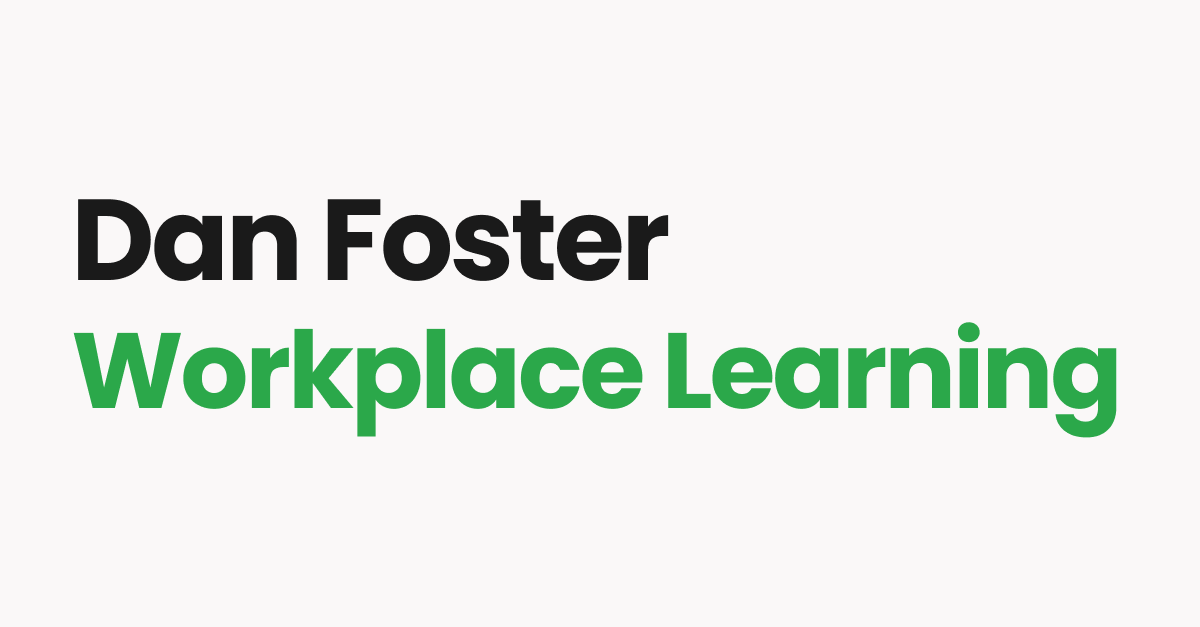
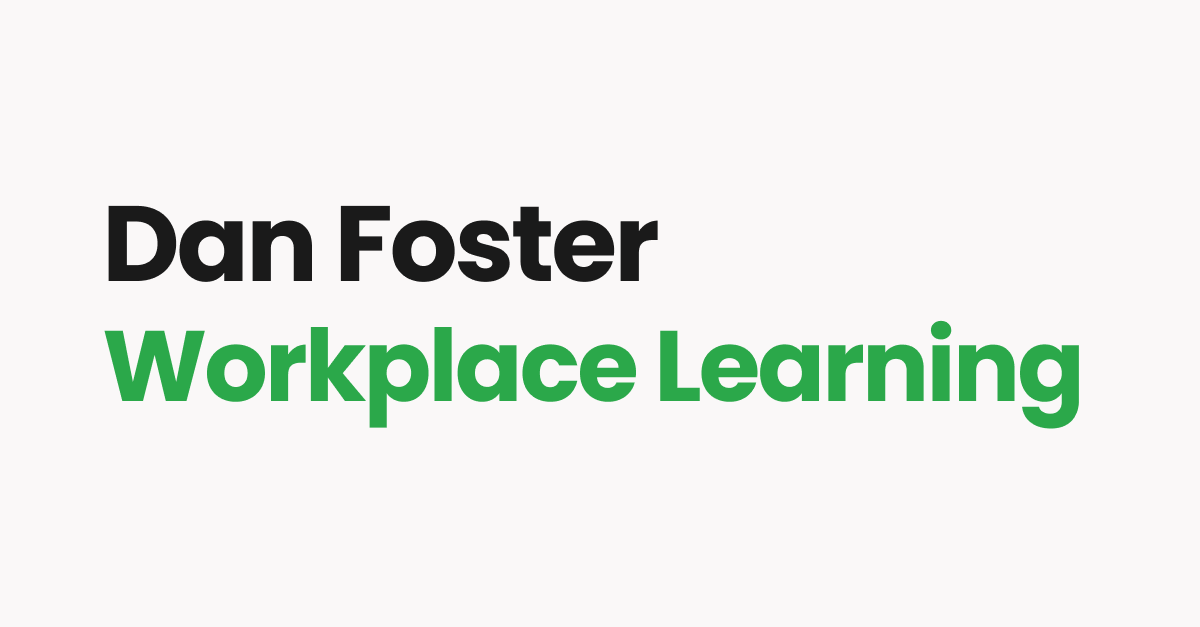
new OG, 'back' links to cards and Experience section

Changed region(s): [[0.0617, 0.5152, 0.9558, 0.697], [0.0617, 0.303, 0.555, 0.4545]]

diff --git a/index.html b/index.html
@@ -126,7 +126,7 @@
         <h2 class="section-heading">Work</h2>
 
         <!-- Project 1: Regulatory Remedy -->
-        <article class="project-card">
+        <article class="project-card" id="regulatory-remedy-card">
           <div class="project-card__media">
             <div class="cs-media__video-wrapper">
               <iframe
@@ -157,7 +157,7 @@
         <hr class="divider" style="margin: 3rem 0" />
 
         <!-- Project 2: Building a Data Culture -->
-        <article class="project-card">
+        <article class="project-card" id="data-culture-card">
           <a href="data-culture.html" class="project-card__media">
             <img
               src="images/Building_A_Data_Culture.png"
@@ -178,7 +178,7 @@
         <hr class="divider" style="margin: 3rem 0" />
 
         <!-- Project 3: Does Our Training Actually Work? -->
-        <article class="project-card">
+        <article class="project-card" id="training-evaluation-card">
           <a href="training-evaluation.html" class="project-card__media">
             <img
               src="images/Does_Our_Training_Actually_Work.png"
@@ -200,7 +200,7 @@
         <hr class="divider" style="margin: 3rem 0" />
 
         <!-- Project 4: Skill Surface -->
-        <article class="project-card">
+        <article class="project-card" id="skill-surface-card">
           <a href="skill-surface.html" class="project-card__media">
             <img
               src="images/Skill_Surface.png"
@@ -220,7 +220,7 @@
         <hr class="divider" style="margin: 3rem 0" />
 
         <!-- Project 5: Your Voice -->
-        <article class="project-card">
+        <article class="project-card" id="your-voice-card">
           <div class="project-card__media">
             <div class="cs-media__video-wrapper">
               <iframe
@@ -280,32 +280,19 @@
           <p class="experience__role">Digital Learning Design Consultant</p>
           <p class="experience__company">Major UK Insurer</p>
           <p class="experience__desc">
-            End-to-end learning consultancy for a major UK insurer, specialising
-            in digital and data-driven solutions. Accountabilities include
-            stakeholder engagement, project management, needs analysis,
-            instructional design, creative development and evaluation.
+            <strong>
+              End-to-end learning consultancy for a major UK insurer, specialising in digital and data-driven solutions.
+            </strong>
           </p>
           <ul class="experience__highlights">
             <li>
-              Managed a mandated
-              <strong>regulatory learning programme</strong> for a company-wide
-              audience of 10,000 colleagues regulated by the FCA, PRA, ICO, CMA,
-              etc. Generated <strong>over £45k annual savings</strong>. Enhanced
-              learner experience; average ratings increased from 3.8 to 4.7/5.
+              Managed a mandated regulatory learning programme for a company-wide audience of 10,000 colleagues regulated by the FCA, PRA, ICO, CMA, etc. Generated over £45k annual savings. Learner ratings increased from 3.8 to 4.7/5.
             </li>
             <li>
-              Established a multi-functional
-              <strong>in-house media production studio</strong>, enabling
-              high-quality video creation and
-              <strong>user-generated content</strong> through professional-grade
-              audio/video, lighting and green screen. Powered by RapidMooc and
-              Learning Glass.
+              Built a multi-functional in-house media production studio - professional-grade audio/video, lighting and green screen - putting high-quality video production and user-generated content in the hands of colleagues across the business. Powered by RapidMooc and Learning Glass.
             </li>
             <li>
-              Developed <strong>data-driven learning strategies</strong> and
-              internal products for customer-facing teams, driving
-              <strong>improved performance outcomes</strong> through learning
-              and development.
+              Built L&D data capability from scratch - from automated Power BI dashboards to Python-based predictive analytics. Connected learning interventions to employee performance, directly informing commercial and training design decisions.
             </li>
           </ul>
         </div>

diff --git a/training-evaluation.html b/training-evaluation.html
@@ -54,7 +54,7 @@
     <!-- Hero -->
     <section class="cs-hero">
       <div class="container">
-        <a href="index.html#work" class="cs-hero__back">
+        <a href="index.html#training-evaluation-card" class="cs-hero__back">
           <svg
             xmlns="http://www.w3.org/2000/svg"
             viewBox="0 0 24 24"

diff --git a/regulatory-remedy.html b/regulatory-remedy.html
@@ -54,7 +54,7 @@
     <!-- Hero -->
     <section class="cs-hero">
       <div class="container">
-        <a href="index.html#work" class="cs-hero__back">
+        <a href="index.html#regulatory-remedy-card" class="cs-hero__back">
           <svg
             xmlns="http://www.w3.org/2000/svg"
             viewBox="0 0 24 24"

diff --git a/skill-surface.html b/skill-surface.html
@@ -54,7 +54,7 @@
     <!-- Hero -->
     <section class="cs-hero">
       <div class="container">
-        <a href="index.html#work" class="cs-hero__back">
+        <a href="index.html#skill-surface-card" class="cs-hero__back">
           <svg
             xmlns="http://www.w3.org/2000/svg"
             viewBox="0 0 24 24"

diff --git a/data-culture.html b/data-culture.html
@@ -54,7 +54,7 @@
     <!-- Hero -->
     <section class="cs-hero">
       <div class="container">
-        <a href="index.html#work" class="cs-hero__back">
+        <a href="index.html#data-culture-card" class="cs-hero__back">
           <svg
             xmlns="http://www.w3.org/2000/svg"
             viewBox="0 0 24 24"

diff --git a/your-voice.html b/your-voice.html
@@ -54,7 +54,7 @@
     <!-- Hero -->
     <section class="cs-hero">
       <div class="container">
-        <a href="index.html#work" class="cs-hero__back">
+        <a href="index.html#your-voice-card" class="cs-hero__back">
           <svg
             xmlns="http://www.w3.org/2000/svg"
             viewBox="0 0 24 24"
